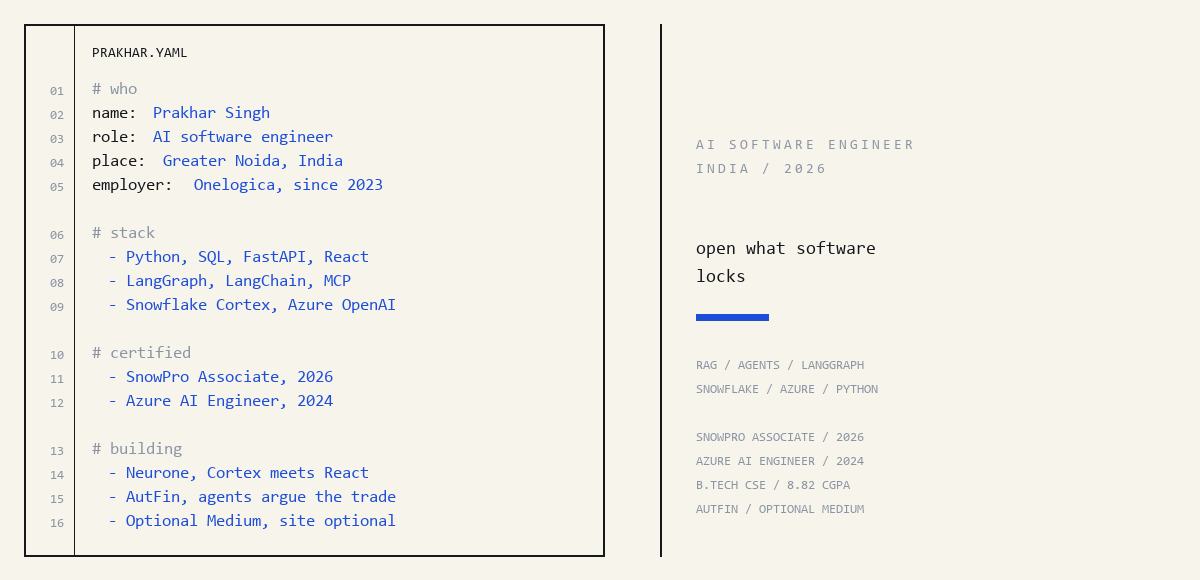
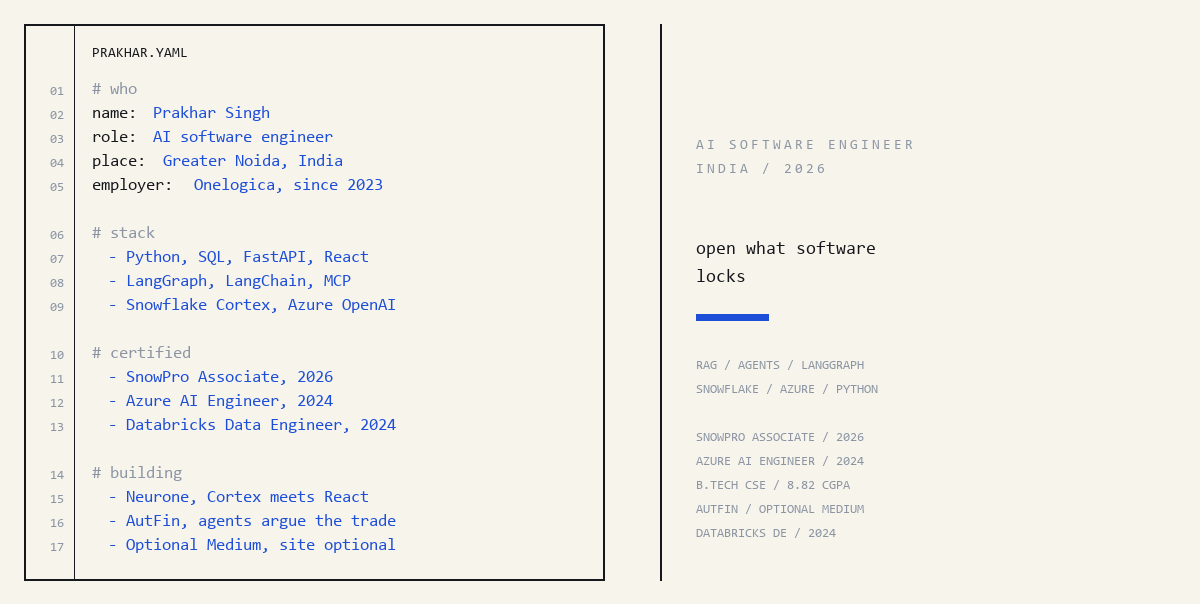
Add proof strip, stack table, failure notes and certifications to profile

diff --git a/README.md b/README.md
@@ -4,6 +4,11 @@ I want to be free from paywalled software and closed corporate systems. Most of 
 
 I build production RAG and agentic systems at Onelogica in India. I hold the SnowPro Associate and Azure AI Engineer Associate certifications.
 
+![Top 4, Tata Concept to Catwalk](https://img.shields.io/badge/Tata_Concept_to_Catwalk-Top_4-1d4ed8?style=flat-square)
+![SnowPro Associate, 2026](https://img.shields.io/badge/SnowPro_Associate-2026-1d4ed8?style=flat-square)
+![Azure AI Engineer, 2024](https://img.shields.io/badge/Azure_AI_Engineer-2024-1d4ed8?style=flat-square)
+![Databricks Data Engineer, 2024](https://img.shields.io/badge/Databricks_Data_Engineer-2024-1d4ed8?style=flat-square)
+
 ## Open gates
 
 01 [AutFin](https://github.com/GreatHavoc/AutFin) puts seven sub-agents on morning research duty. They pull market data, argue the trade, and carry what they learn into the next day. Built with Pydantic AI around a Zerodha portfolio.
@@ -19,6 +24,44 @@ I build production RAG and agentic systems at Onelogica in India. I hold the Sno
 06 Fashion AI forecasting combines retrieval over social data with multimodal image and video analysis. It ranked Top 4 in the Tata Concept to Catwalk challenge.
 
 07 AI Interview Suite tracks candidates with AI proctoring and audit records for video, audio and transcription. It runs on Azure Container Apps inside a private VNet.
+
+## Stack
+
+<table>
+<tr><td>Agents</td><td>LangGraph, LangChain, MCP, Pydantic AI</td></tr>
+<tr><td>Models</td><td>Azure OpenAI, Cortex Agents, Google models</td></tr>
+<tr><td>Data</td><td>Snowflake, SQL, ELT, vector stores</td></tr>
+<tr><td>Delivery</td><td>FastAPI, Azure Container Apps, Bicep, GitHub Actions</td></tr>
+</table>
+
+<details>
+<summary>Walls hit and what fixed them</summary>
+
+- Freedium's original domain stopped resolving. Optional Medium now reads the mirror from a config value and ships a working default.
+- Cortex Agents had to run from the front end without exposing credentials. The calls go through Snowflake stored procedures, with prompts and agents versioned in tables.
+
+</details>
+
+## Milestones
+
+- 2026-05 SnowPro Associate certified
+- 2026-02 Neurone data and AI platform started
+- 2025-11 Fashion AI ranked Top 4 in Tata Concept to Catwalk
+- 2024-03 Azure AI Engineer Associate certified
+
+<details>
+<summary>Certifications</summary>
+
+- SnowPro Associate, Snowflake, issued May 2026
+- Databricks Certified Data Engineer Associate, issued Dec 2024, valid through Dec 2026
+- Postman API Fundamentals Student Expert, issued Mar 2024
+- Microsoft Certified Azure AI Engineer Associate, issued Mar 2024
+- Python Foundation Certification, Infosys, issued Jul 2023
+- Cybersecurity Foundation, Palo Alto Networks, issued Nov 2022
+- Google Cloud Essentials, skill badge, issued Apr 2022
+- Baseline Infrastructure and Networking in Google Cloud, skill badges, issued Apr 2022
+
+</details>
 
 ## Lately
 
